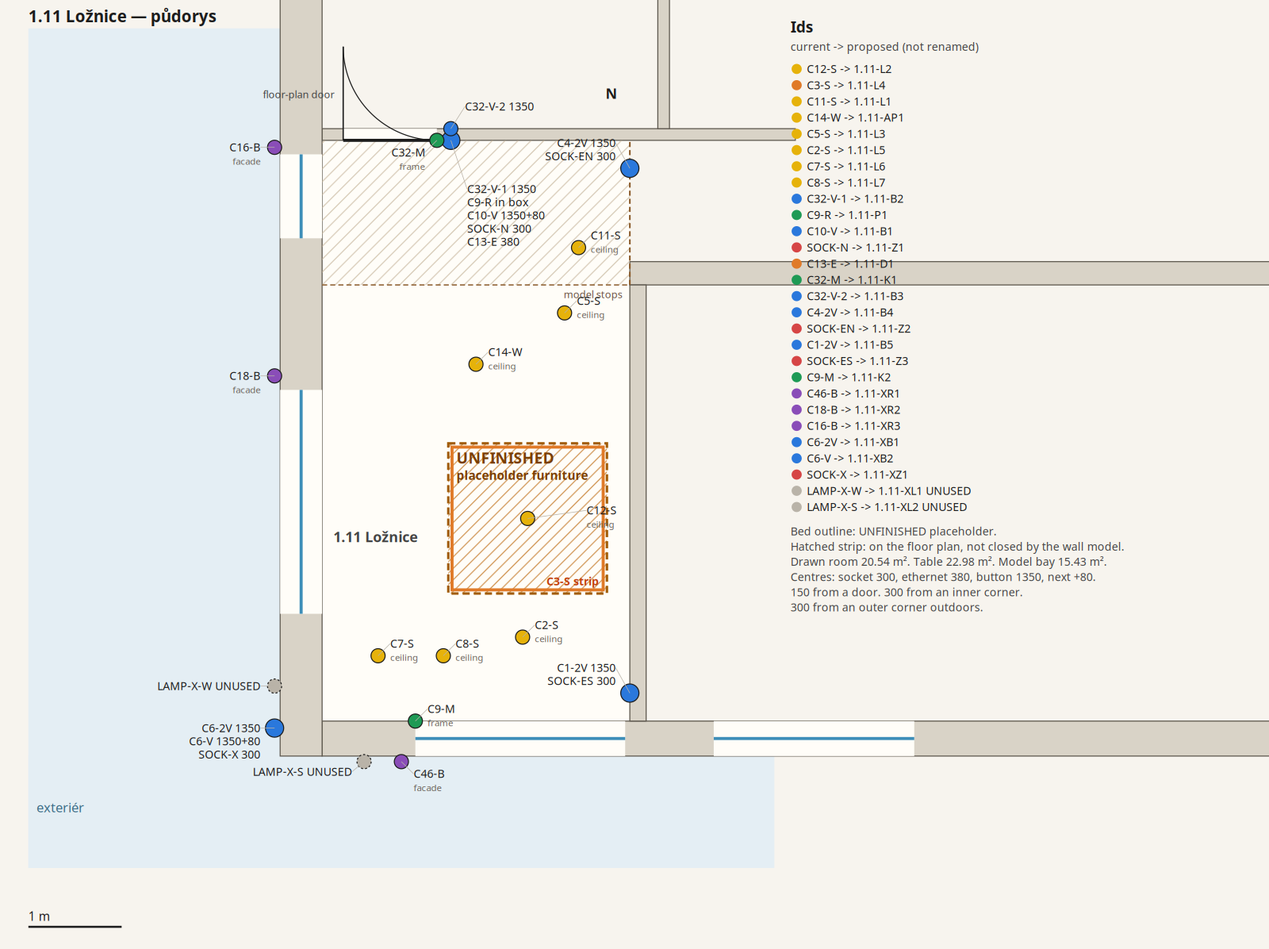
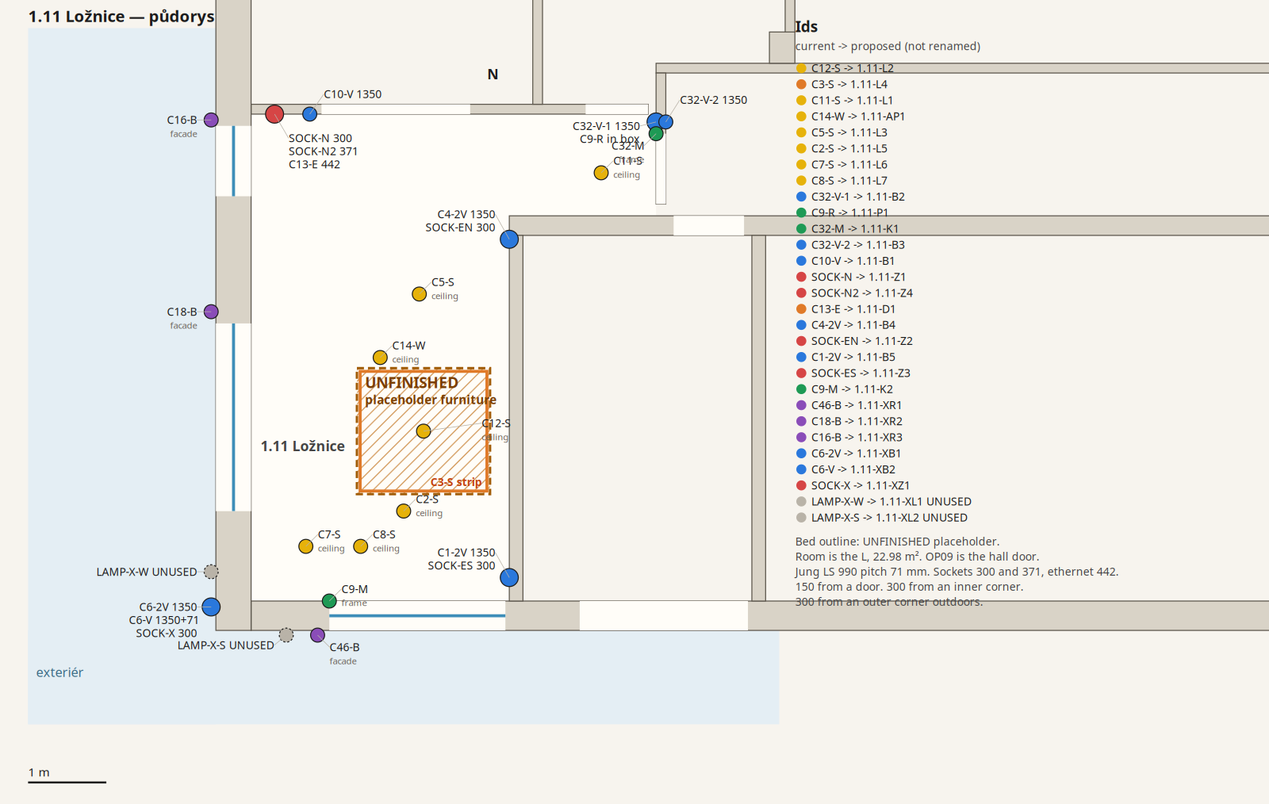
Publish PR preview pr-82

Changed region(s): [[0.0312, 0.0, 1.0, 0.8254], [0.0, 0.9477, 0.0938, 0.9783], [0.0312, 0.8254, 0.0625, 0.856]]

diff --git a/pr-preview/pr-82/electrical/1.11.html b/pr-preview/pr-82/electrical/1.11.html
@@ -22,18 +22,18 @@
   <h1>1.11 Ložnice — půdorys</h1>
   <p class="lead">2D review drawing. The 3D boxes are the first pass and are not being moved. The bed outline is UNFINISHED placeholder furniture. North is up. <a href="PlanNotes.md">Plan notes</a> · <a href="Naming.md">Naming</a></p>
   <div class="plan">
-<svg xmlns="http://www.w3.org/2000/svg" width="1252" height="936" viewBox="0 0 1252 936" font-family="ui-sans-serif, sans-serif"><defs><pattern id="gap" width="9" height="9" patternUnits="userSpaceOnUse" patternTransform="rotate(45)"><line x1="0" y1="0" x2="0" y2="9" stroke="#c4b49a" stroke-width="1.4"/></pattern><pattern id="unfin" width="8" height="8" patternUnits="userSpaceOnUse" patternTransform="rotate(45)"><line x1="0" y1="0" x2="0" y2="8" stroke="#c47b2b" stroke-width="1.6"/></pattern></defs><rect width="1252" height="936" fill="#f7f4ee"/><rect x="28.0" y="28.0" width="248.4" height="828.0" fill="#e4eef4"/><rect x="28.0" y="745.6" width="736.0" height="110.4" fill="#e4eef4"/><text x="36" y="801" fill="#3d6d86" font-size="13">exteriér</text><rect x="317.8" y="138.4" width="303.6" height="572.7" fill="#fffdf8" stroke="none"/><polygon points="317.8,745.6 317.8,711.1 1886.4,711.1 1886.4,745.6" fill="#d9d3c7" stroke="#5c564c" stroke-width="1"/><polygon points="637.5,281.0 621.4,281.0 621.4,258.0 1891.0,258.0 1891.0,281.0" fill="#d9d3c7" stroke="#5c564c" stroke-width="1"/><polygon points="317.8,138.4 317.8,126.9 784.7,126.9 784.7,138.4" fill="#d9d3c7" stroke="#5c564c" stroke-width="1"/><polygon points="317.8,711.1 317.8,745.6 276.4,745.6 276.4,-114.6 317.8,-114.6" fill="#d9d3c7" stroke="#5c564c" stroke-width="1"/><polygon points="637.5,711.1 621.4,711.1 621.4,281.0 637.5,281.0" fill="#d9d3c7" stroke="#5c564c" stroke-width="1"/><polygon points="660.5,126.9 649.0,126.9 649.0,-114.6 660.5,-114.6" fill="#d9d3c7" stroke="#5c564c" stroke-width="1"/><rect x="276.4" y="384.5" width="41.4" height="220.8" fill="#fffdf8" stroke="none"/><line x1="297.1" y1="605.3" x2="297.1" y2="384.5" stroke="#3d8eb8" stroke-width="3"/><rect x="276.4" y="152.2" width="41.4" height="82.8" fill="#fffdf8" stroke="none"/><line x1="297.1" y1="235.0" x2="297.1" y2="152.2" stroke="#3d8eb8" stroke-width="3"/><rect x="409.8" y="711.1" width="207.0" height="34.5" fill="#fffdf8" stroke="none"/><line x1="409.8" y1="728.3" x2="616.8" y2="728.3" stroke="#3d8eb8" stroke-width="3"/><rect x="704.2" y="711.1" width="197.8" height="34.5" fill="#fffdf8" stroke="none"/><line x1="704.2" y1="728.3" x2="902.0" y2="728.3" stroke="#3d8eb8" stroke-width="3"/><rect x="317.8" y="138.4" width="303.6" height="142.6" fill="url(#gap)" stroke="none"/><line x1="317.8" y1="281.0" x2="621.4" y2="281.0" stroke="#8a5a2a" stroke-width="1.2" stroke-dasharray="5 3"/><line x1="621.4" y1="281.0" x2="621.4" y2="138.4" stroke="#8a5a2a" stroke-width="1.6" stroke-dasharray="5 3"/><text x="614.0" y="294.0" text-anchor="end" fill="#6b5344" font-size="10">model stops</text><rect x="338.6" y="126.9" width="92.4" height="11.5" fill="#fffdf8" stroke="none"/><line x1="338.6" y1="138.4" x2="431.0" y2="138.4" stroke="#1c1c1c" stroke-width="3"/><line x1="338.6" y1="138.4" x2="338.6" y2="46.0" stroke="#1c1c1c" stroke-width="1.3"/><path d="M 431.0 138.4 A 92.4 92.4 0 0 1 338.6 46.0" fill="none" stroke="#1c1c1c" stroke-width="1"/><text x="330.6" y="96.8" text-anchor="end" fill="#444" font-size="10">floor-plan door</text><rect x="442.3" y="437.2" width="156.5" height="148.1" fill="url(#unfin)" stroke="#a15c07" stroke-width="2.4" stroke-dasharray="7 4"/><rect x="446.0" y="440.9" width="149.1" height="140.8" fill="none" stroke="#e07a28" stroke-width="3"/><text x="450.3" y="457.2" text-anchor="start" fill="#7a3e00" font-size="15" font-weight="700">UNFINISHED</text><text x="450.3" y="473.2" text-anchor="start" fill="#7a3e00" font-size="12" font-weight="700">placeholder furniture</text><text x="590.8" y="577.3" text-anchor="end" fill="#c2410c" font-size="11" font-weight="600">C3-S strip</text><text x="328.8" y="534.7" fill="#444" font-size="14" font-weight="600">1.11 Ložnice</text><circle cx="520.6" cy="511.3" r="7" fill="#e6b20a" stroke="#1c1c1c" stroke-width="1"/><line x1="520.6" y1="511.3" x2="578.6" y2="503.3" stroke="#b7b1a6" stroke-width="0.6"/><text x="578.6" y="507.3" text-anchor="start" font-size="11" fill="#1c1c1c">C12-S</text><text x="578.6" y="520.3" text-anchor="start" font-size="9" fill="#6b645c">ceiling</text><circle cx="570.8" cy="244.2" r="7" fill="#e6b20a" stroke="#1c1c1c" stroke-width="1"/><line x1="570.8" y1="244.2" x2="582.8" y2="232.2" stroke="#b7b1a6" stroke-width="0.6"/><text x="582.8" y="236.2" text-anchor="start" font-size="11" fill="#1c1c1c">C11-S</text><text x="582.8" y="249.2" text-anchor="start" font-size="9" fill="#6b645c">ceiling</text><circle cx="469.6" cy="359.2" r="7" fill="#e6b20a" stroke="#1c1c1c" stroke-width="1"/><line x1="469.6" y1="359.2" x2="481.6" y2="347.2" stroke="#b7b1a6" stroke-width="0.6"/><text x="481.6" y="351.2" text-anchor="start" font-size="11" fill="#1c1c1c">C14-W</text><text x="481.6" y="364.2" text-anchor="start" font-size="9" fill="#6b645c">ceiling</text><circle cx="557.0" cy="308.6" r="7" fill="#e6b20a" stroke="#1c1c1c" stroke-width="1"/><line x1="557.0" y1="308.6" x2="569.0" y2="296.6" stroke="#b7b1a6" stroke-width="0.6"/><text x="569.0" y="300.6" text-anchor="start" font-size="11" fill="#1c1c1c">C5-S</text><text x="569.0" y="313.6" text-anchor="start" font-size="9" fill="#6b645c">ceiling</text><circle cx="515.6" cy="628.3" r="7" fill="#e6b20a" stroke="#1c1c1c" stroke-width="1"/><line x1="515.6" y1="628.3" x2="527.6" y2="616.3" stroke="#b7b1a6" stroke-width="0.6"/><text x="527.6" y="620.3" text-anchor="start" font-size="11" fill="#1c1c1c">C2-S</text><text x="527.6" y="633.3" text-anchor="start" font-size="9" fill="#6b645c">ceiling</text><circle cx="373.0" cy="646.7" r="7" fill="#e6b20a" stroke="#1c1c1c" stroke-width="1"/><line x1="373.0" y1="646.7" x2="385.0" y2="634.7" stroke="#b7b1a6" stroke-width="0.6"/><text x="385.0" y="638.7" text-anchor="start" font-size="11" fill="#1c1c1c">C7-S</text><text x="385.0" y="651.7" text-anchor="start" font-size="9" fill="#6b645c">ceiling</text><circle cx="437.4" cy="646.7" r="7" fill="#e6b20a" stroke="#1c1c1c" stroke-width="1"/><line x1="437.4" y1="646.7" x2="449.4" y2="634.7" stroke="#b7b1a6" stroke-width="0.6"/><text x="449.4" y="638.7" text-anchor="start" font-size="11" fill="#1c1c1c">C8-S</text><text x="449.4" y="651.7" text-anchor="start" font-size="9" fill="#6b645c">ceiling</text><circle cx="444.8" cy="138.4" r="9" fill="#2a78dc" stroke="#1c1c1c" stroke-width="1"/><line x1="444.8" y1="138.4" x2="460.8" y2="186.4" stroke="#b7b1a6" stroke-width="0.6"/><text x="460.8" y="190.4" text-anchor="start" font-size="11" fill="#1c1c1c">C32-V-1 1350</text><text x="460.8" y="203.4" text-anchor="start" font-size="11" fill="#1c1c1c">C9-R in box</text><text x="460.8" y="216.4" text-anchor="start" font-size="11" fill="#1c1c1c">C10-V 1350+80</text><text x="460.8" y="229.4" text-anchor="start" font-size="11" fill="#1c1c1c">SOCK-N 300</text><text x="460.8" y="242.4" text-anchor="start" font-size="11" fill="#1c1c1c">C13-E 380</text><circle cx="431.0" cy="138.4" r="7" fill="#1e9a55" stroke="#1c1c1c" stroke-width="1"/><line x1="431.0" y1="138.4" x2="419.0" y2="150.4" stroke="#b7b1a6" stroke-width="0.6"/><text x="419.0" y="154.4" text-anchor="end" font-size="11" fill="#1c1c1c">C32-M</text><text x="419.0" y="167.4" text-anchor="end" font-size="9" fill="#6b645c">frame</text><circle cx="444.8" cy="126.9" r="7" fill="#2a78dc" stroke="#1c1c1c" stroke-width="1"/><line x1="444.8" y1="126.9" x2="458.8" y2="104.9" stroke="#b7b1a6" stroke-width="0.6"/><text x="458.8" y="108.9" text-anchor="start" font-size="11" fill="#1c1c1c">C32-V-2 1350</text><circle cx="621.4" cy="166.0" r="9" fill="#2a78dc" stroke="#1c1c1c" stroke-width="1"/><line x1="621.4" y1="166.0" x2="607.4" y2="141.0" stroke="#b7b1a6" stroke-width="0.6"/><text x="607.4" y="145.0" text-anchor="end" font-size="11" fill="#1c1c1c">C4-2V 1350</text><text x="607.4" y="158.0" text-anchor="end" font-size="11" fill="#1c1c1c">SOCK-EN 300</text><circle cx="621.4" cy="683.5" r="9" fill="#2a78dc" stroke="#1c1c1c" stroke-width="1"/><line x1="621.4" y1="683.5" x2="607.4" y2="658.5" stroke="#b7b1a6" stroke-width="0.6"/><text x="607.4" y="662.5" text-anchor="end" font-size="11" fill="#1c1c1c">C1-2V 1350</text><text x="607.4" y="675.5" text-anchor="end" font-size="11" fill="#1c1c1c">SOCK-ES 300</text><circle cx="409.8" cy="711.1" r="7" fill="#1e9a55" stroke="#1c1c1c" stroke-width="1"/><line x1="409.8" y1="711.1" x2="421.8" y2="699.1" stroke="#b7b1a6" stroke-width="0.6"/><text x="421.8" y="703.1" text-anchor="start" font-size="11" fill="#1c1c1c">C9-M</text><text x="421.8" y="716.1" text-anchor="start" font-size="9" fill="#6b645c">frame</text><circle cx="396.0" cy="751.1" r="7" fill="#8a4db8" stroke="#1c1c1c" stroke-width="1"/><line x1="396.0" y1="751.1" x2="408.0" y2="763.1" stroke="#b7b1a6" stroke-width="0.6"/><text x="408.0" y="767.1" text-anchor="start" font-size="11" fill="#1c1c1c">C46-B</text><text x="408.0" y="780.1" text-anchor="start" font-size="9" fill="#6b645c">facade</text><circle cx="270.9" cy="370.7" r="7" fill="#8a4db8" stroke="#1c1c1c" stroke-width="1"/><line x1="270.9" y1="370.7" x2="256.9" y2="370.7" stroke="#b7b1a6" stroke-width="0.6"/><text x="256.9" y="374.7" text-anchor="end" font-size="11" fill="#1c1c1c">C18-B</text><text x="256.9" y="387.7" text-anchor="end" font-size="9" fill="#6b645c">facade</text><circle cx="270.9" cy="145.3" r="7" fill="#8a4db8" stroke="#1c1c1c" stroke-width="1"/><line x1="270.9" y1="145.3" x2="256.9" y2="145.3" stroke="#b7b1a6" stroke-width="0.6"/><text x="256.9" y="149.3" text-anchor="end" font-size="11" fill="#1c1c1c">C16-B</text><text x="256.9" y="162.3" text-anchor="end" font-size="9" fill="#6b645c">facade</text><circle cx="270.9" cy="718.0" r="9" fill="#2a78dc" stroke="#1c1c1c" stroke-width="1"/><line x1="270.9" y1="718.0" x2="256.9" y2="718.0" stroke="#b7b1a6" stroke-width="0.6"/><text x="256.9" y="722.0" text-anchor="end" font-size="11" fill="#1c1c1c">C6-2V 1350</text><text x="256.9" y="735.0" text-anchor="end" font-size="11" fill="#1c1c1c">C6-V 1350+80</text><text x="256.9" y="748.0" text-anchor="end" font-size="11" fill="#1c1c1c">SOCK-X 300</text><circle cx="270.9" cy="676.6" r="7" fill="#b9b3a8" stroke="#1c1c1c" stroke-width="1" stroke-dasharray="2 2"/><line x1="270.9" y1="676.6" x2="256.9" y2="676.6" stroke="#b7b1a6" stroke-width="0.6"/><text x="256.9" y="680.6" text-anchor="end" font-size="11" fill="#1c1c1c">LAMP-X-W UNUSED</text><circle cx="359.2" cy="751.1" r="7" fill="#b9b3a8" stroke="#1c1c1c" stroke-width="1" stroke-dasharray="2 2"/><line x1="359.2" y1="751.1" x2="347.2" y2="761.1" stroke="#b7b1a6" stroke-width="0.6"/><text x="347.2" y="765.1" text-anchor="end" font-size="11" fill="#1c1c1c">LAMP-X-S UNUSED</text><line x1="28.0" y1="914.0" x2="120.0" y2="914.0" stroke="#1c1c1c" stroke-width="2"/><text x="28.0" y="908.0" font-size="12" fill="#1c1c1c">1 m</text><text x="607.6" y="97.5" text-anchor="end" font-size="14" font-weight="700" fill="#1c1c1c">N</text><text x="780.0" y="32" font-size="15" font-weight="700" fill="#1c1c1c">Ids</text><text x="780.0" y="50" font-size="11" fill="#444">current  ->  proposed (not renamed)</text><circle cx="786.0" cy="68" r="5" fill="#e6b20a"/><text x="796.0" y="72" font-size="11" fill="#1c1c1c">C12-S  ->  1.11-L2</text><circle cx="786.0" cy="84" r="5" fill="#e07a28"/><text x="796.0" y="88" font-size="11" fill="#1c1c1c">C3-S  ->  1.11-L4</text><circle cx="786.0" cy="100" r="5" fill="#e6b20a"/><text x="796.0" y="104" font-size="11" fill="#1c1c1c">C11-S  ->  1.11-L1</text><circle cx="786.0" cy="116" r="5" fill="#e6b20a"/><text x="796.0" y="120" font-size="11" fill="#1c1c1c">C14-W  ->  1.11-AP1</text><circle cx="786.0" cy="132" r="5" fill="#e6b20a"/><text x="796.0" y="136" font-size="11" fill="#1c1c1c">C5-S  ->  1.11-L3</text><circle cx="786.0" cy="148" r="5" fill="#e6b20a"/><text x="796.0" y="152" font-size="11" fill="#1c1c1c">C2-S  ->  1.11-L5</text><circle cx="786.0" cy="164" r="5" fill="#e6b20a"/><text x="796.0" y="168" font-size="11" fill="#1c1c1c">C7-S  ->  1.11-L6</text><circle cx="786.0" cy="180" r="5" fill="#e6b20a"/><text x="796.0" y="184" font-size="11" fill="#1c1c1c">C8-S  ->  1.11-L7</text><circle cx="786.0" cy="196" r="5" fill="#2a78dc"/><text x="796.0" y="200" font-size="11" fill="#1c1c1c">C32-V-1  ->  1.11-B2</text><circle cx="786.0" cy="212" r="5" fill="#1e9a55"/><text x="796.0" y="216" font-size="11" fill="#1c1c1c">C9-R  ->  1.11-P1</text><circle cx="786.0" cy="228" r="5" fill="#2a78dc"/><text x="796.0" y="232" font-size="11" fill="#1c1c1c">C10-V  ->  1.11-B1</text><circle cx="786.0" cy="244" r="5" fill="#d64545"/><text x="796.0" y="248" font-size="11" fill="#1c1c1c">SOCK-N  ->  1.11-Z1</text><circle cx="786.0" cy="260" r="5" fill="#e07a28"/><text x="796.0" y="264" font-size="11" fill="#1c1c1c">C13-E  ->  1.11-D1</text><circle cx="786.0" cy="276" r="5" fill="#1e9a55"/><text x="796.0" y="280" font-size="11" fill="#1c1c1c">C32-M  ->  1.11-K1</text><circle cx="786.0" cy="292" r="5" fill="#2a78dc"/><text x="796.0" y="296" font-size="11" fill="#1c1c1c">C32-V-2  ->  1.11-B3</text><circle cx="786.0" cy="308" r="5" fill="#2a78dc"/><text x="796.0" y="312" font-size="11" fill="#1c1c1c">C4-2V  ->  1.11-B4</text><circle cx="786.0" cy="324" r="5" fill="#d64545"/><text x="796.0" y="328" font-size="11" fill="#1c1c1c">SOCK-EN  ->  1.11-Z2</text><circle cx="786.0" cy="340" r="5" fill="#2a78dc"/><text x="796.0" y="344" font-size="11" fill="#1c1c1c">C1-2V  ->  1.11-B5</text><circle cx="786.0" cy="356" r="5" fill="#d64545"/><text x="796.0" y="360" font-size="11" fill="#1c1c1c">SOCK-ES  ->  1.11-Z3</text><circle cx="786.0" cy="372" r="5" fill="#1e9a55"/><text x="796.0" y="376" font-size="11" fill="#1c1c1c">C9-M  ->  1.11-K2</text><circle cx="786.0" cy="388" r="5" fill="#8a4db8"/><text x="796.0" y="392" font-size="11" fill="#1c1c1c">C46-B  ->  1.11-XR1</text><circle cx="786.0" cy="404" r="5" fill="#8a4db8"/><text x="796.0" y="408" font-size="11" fill="#1c1c1c">C18-B  ->  1.11-XR2</text><circle cx="786.0" cy="420" r="5" fill="#8a4db8"/><text x="796.0" y="424" font-size="11" fill="#1c1c1c">C16-B  ->  1.11-XR3</text><circle cx="786.0" cy="436" r="5" fill="#2a78dc"/><text x="796.0" y="440" font-size="11" fill="#1c1c1c">C6-2V  ->  1.11-XB1</text><circle cx="786.0" cy="452" r="5" fill="#2a78dc"/><text x="796.0" y="456" font-size="11" fill="#1c1c1c">C6-V  ->  1.11-XB2</text><circle cx="786.0" cy="468" r="5" fill="#d64545"/><text x="796.0" y="472" font-size="11" fill="#1c1c1c">SOCK-X  ->  1.11-XZ1</text><circle cx="786.0" cy="484" r="5" fill="#b9b3a8"/><text x="796.0" y="488" font-size="11" fill="#1c1c1c">LAMP-X-W  ->  1.11-XL1  UNUSED</text><circle cx="786.0" cy="500" r="5" fill="#b9b3a8"/><text x="796.0" y="504" font-size="11" fill="#1c1c1c">LAMP-X-S  ->  1.11-XL2  UNUSED</text><text x="780.0" y="528" font-size="11" fill="#444">Bed outline: UNFINISHED placeholder.</text><text x="780.0" y="543" font-size="11" fill="#444">Hatched strip: on the floor plan, not closed by the wall model.</text><text x="780.0" y="558" font-size="11" fill="#444">Drawn room 20.54 m². Table 22.98 m². Model bay 15.43 m².</text><text x="780.0" y="573" font-size="11" fill="#444">Centres: socket 300, ethernet 380, button 1350, next +80.</text><text x="780.0" y="588" font-size="11" fill="#444">150 from a door. 300 from an inner corner.</text><text x="780.0" y="603" font-size="11" fill="#444">300 from an outer corner outdoors.</text><text x="28.0" y="22" font-size="16" font-weight="700" fill="#1c1c1c">1.11 Ložnice — půdorys</text></svg>
+<svg xmlns="http://www.w3.org/2000/svg" width="1265" height="802" viewBox="0 0 1265 802" font-family="ui-sans-serif, sans-serif"><defs><pattern id="gap" width="9" height="9" patternUnits="userSpaceOnUse" patternTransform="rotate(45)"><line x1="0" y1="0" x2="0" y2="9" stroke="#c4b49a" stroke-width="1.4"/></pattern><pattern id="unfin" width="8" height="8" patternUnits="userSpaceOnUse" patternTransform="rotate(45)"><line x1="0" y1="0" x2="0" y2="8" stroke="#c47b2b" stroke-width="1.6"/></pattern></defs><rect width="1265" height="802" fill="#f7f4ee"/><rect x="28.0" y="28.0" width="187.2" height="694.2" fill="#e4eef4"/><rect x="28.0" y="628.6" width="748.8" height="93.6" fill="#e4eef4"/><text x="36" y="675" fill="#3d6d86" font-size="13">exteriér</text><polygon points="250.3,599.3 507.7,599.3 507.7,215.2 654.0,215.2 654.0,113.8 250.3,113.8" fill="#fffdf8" stroke="none"/><polygon points="250.3,628.6 250.3,599.3 1580.2,599.3 1580.2,628.6" fill="#d9d3c7" stroke="#5c564c" stroke-width="1"/><polygon points="521.3,234.7 507.7,234.7 507.7,215.2 1584.1,215.2 1584.1,234.7" fill="#d9d3c7" stroke="#5c564c" stroke-width="1"/><polygon points="250.3,113.8 250.3,104.0 646.2,104.0 646.2,113.8" fill="#d9d3c7" stroke="#5c564c" stroke-width="1"/><polygon points="663.7,72.8 654.0,72.8 654.0,63.1 1324.8,63.1 1324.8,72.8" fill="#d9d3c7" stroke="#5c564c" stroke-width="1"/><polygon points="250.3,599.3 250.3,628.6 215.2,628.6 215.2,-100.7 250.3,-100.7" fill="#d9d3c7" stroke="#5c564c" stroke-width="1"/><polygon points="521.3,599.3 507.7,599.3 507.7,234.7 521.3,234.7" fill="#d9d3c7" stroke="#5c564c" stroke-width="1"/><polygon points="540.8,104.0 531.1,104.0 531.1,-100.7 540.8,-100.7" fill="#d9d3c7" stroke="#5c564c" stroke-width="1"/><polygon points="663.7,203.5 654.0,203.5 654.0,72.8 663.7,72.8" fill="#d9d3c7" stroke="#5c564c" stroke-width="1"/><polygon points="763.2,599.3 749.5,599.3 749.5,234.7 763.2,234.7" fill="#d9d3c7" stroke="#5c564c" stroke-width="1"/><polygon points="792.4,63.1 767.0,63.1 767.0,31.9 792.4,31.9" fill="#d9d3c7" stroke="#5c564c" stroke-width="1"/><polygon points="792.4,31.9 782.7,31.9 782.7,-100.7 792.4,-100.7" fill="#d9d3c7" stroke="#5c564c" stroke-width="1"/><rect x="215.2" y="322.5" width="35.1" height="187.2" fill="#fffdf8" stroke="none"/><line x1="232.8" y1="509.6" x2="232.8" y2="322.5" stroke="#3d8eb8" stroke-width="3"/><rect x="215.2" y="125.5" width="35.1" height="70.2" fill="#fffdf8" stroke="none"/><line x1="232.8" y1="195.7" x2="232.8" y2="125.5" stroke="#3d8eb8" stroke-width="3"/><rect x="320.5" y="104.0" width="148.2" height="9.8" fill="#fffdf8" stroke="none"/><rect x="328.3" y="599.3" width="175.5" height="29.2" fill="#fffdf8" stroke="none"/><line x1="328.3" y1="614.0" x2="503.8" y2="614.0" stroke="#3d8eb8" stroke-width="3"/><rect x="583.8" y="104.0" width="62.4" height="9.8" fill="#fffdf8" stroke="none"/><rect x="577.9" y="599.3" width="167.7" height="29.2" fill="#fffdf8" stroke="none"/><rect x="654.0" y="133.3" width="9.8" height="70.2" fill="#fffdf8" stroke="none"/><rect x="671.5" y="215.2" width="70.2" height="19.5" fill="#fffdf8" stroke="none"/><rect x="355.8" y="367.1" width="132.7" height="125.6" fill="url(#unfin)" stroke="#a15c07" stroke-width="2.4" stroke-dasharray="7 4"/><rect x="359.0" y="370.3" width="126.4" height="119.3" fill="none" stroke="#e07a28" stroke-width="3"/><text x="363.8" y="387.1" text-anchor="start" fill="#7a3e00" font-size="15" font-weight="700">UNFINISHED</text><text x="363.8" y="403.1" text-anchor="start" fill="#7a3e00" font-size="12" font-weight="700">placeholder furniture</text><text x="480.5" y="484.7" text-anchor="end" fill="#c2410c" font-size="11" font-weight="600">C3-S strip</text><text x="259.7" y="449.8" fill="#444" font-size="14" font-weight="600">1.11 Ložnice</text><circle cx="422.2" cy="429.9" r="7" fill="#e6b20a" stroke="#1c1c1c" stroke-width="1"/><line x1="422.2" y1="429.9" x2="480.2" y2="421.9" stroke="#b7b1a6" stroke-width="0.6"/><text x="480.2" y="425.9" text-anchor="start" font-size="11" fill="#1c1c1c">C12-S</text><text x="480.2" y="438.9" text-anchor="start" font-size="9" fill="#6b645c">ceiling</text><circle cx="599.3" cy="172.3" r="7" fill="#e6b20a" stroke="#1c1c1c" stroke-width="1"/><line x1="599.3" y1="172.3" x2="611.3" y2="160.3" stroke="#b7b1a6" stroke-width="0.6"/><text x="611.3" y="164.3" text-anchor="start" font-size="11" fill="#1c1c1c">C11-S</text><text x="611.3" y="177.3" text-anchor="start" font-size="9" fill="#6b645c">ceiling</text><circle cx="379.0" cy="356.5" r="7" fill="#e6b20a" stroke="#1c1c1c" stroke-width="1"/><line x1="379.0" y1="356.5" x2="391.0" y2="344.5" stroke="#b7b1a6" stroke-width="0.6"/><text x="391.0" y="348.5" text-anchor="start" font-size="11" fill="#1c1c1c">C14-W</text><text x="391.0" y="361.5" text-anchor="start" font-size="9" fill="#6b645c">ceiling</text><circle cx="418.0" cy="293.2" r="7" fill="#e6b20a" stroke="#1c1c1c" stroke-width="1"/><line x1="418.0" y1="293.2" x2="430.0" y2="281.2" stroke="#b7b1a6" stroke-width="0.6"/><text x="430.0" y="285.2" text-anchor="start" font-size="11" fill="#1c1c1c">C5-S</text><text x="430.0" y="298.2" text-anchor="start" font-size="9" fill="#6b645c">ceiling</text><circle cx="402.4" cy="509.6" r="7" fill="#e6b20a" stroke="#1c1c1c" stroke-width="1"/><line x1="402.4" y1="509.6" x2="414.4" y2="497.6" stroke="#b7b1a6" stroke-width="0.6"/><text x="414.4" y="501.6" text-anchor="start" font-size="11" fill="#1c1c1c">C2-S</text><text x="414.4" y="514.6" text-anchor="start" font-size="9" fill="#6b645c">ceiling</text><circle cx="304.9" cy="544.8" r="7" fill="#e6b20a" stroke="#1c1c1c" stroke-width="1"/><line x1="304.9" y1="544.8" x2="316.9" y2="532.8" stroke="#b7b1a6" stroke-width="0.6"/><text x="316.9" y="536.8" text-anchor="start" font-size="11" fill="#1c1c1c">C7-S</text><text x="316.9" y="549.8" text-anchor="start" font-size="9" fill="#6b645c">ceiling</text><circle cx="359.5" cy="544.8" r="7" fill="#e6b20a" stroke="#1c1c1c" stroke-width="1"/><line x1="359.5" y1="544.8" x2="371.5" y2="532.8" stroke="#b7b1a6" stroke-width="0.6"/><text x="371.5" y="536.8" text-anchor="start" font-size="11" fill="#1c1c1c">C8-S</text><text x="371.5" y="549.8" text-anchor="start" font-size="9" fill="#6b645c">ceiling</text><circle cx="654.0" cy="121.6" r="9" fill="#2a78dc" stroke="#1c1c1c" stroke-width="1"/><line x1="654.0" y1="121.6" x2="638.0" y2="125.6" stroke="#b7b1a6" stroke-width="0.6"/><text x="638.0" y="129.6" text-anchor="end" font-size="11" fill="#1c1c1c">C32-V-1 1350</text><text x="638.0" y="142.6" text-anchor="end" font-size="11" fill="#1c1c1c">C9-R in box</text><circle cx="654.0" cy="133.3" r="7" fill="#1e9a55" stroke="#1c1c1c" stroke-width="1"/><line x1="654.0" y1="133.3" x2="642.0" y2="145.3" stroke="#b7b1a6" stroke-width="0.6"/><text x="642.0" y="149.3" text-anchor="end" font-size="11" fill="#1c1c1c">C32-M</text><text x="642.0" y="162.3" text-anchor="end" font-size="9" fill="#6b645c">frame</text><circle cx="663.7" cy="121.6" r="7" fill="#2a78dc" stroke="#1c1c1c" stroke-width="1"/><line x1="663.7" y1="121.6" x2="677.7" y2="99.6" stroke="#b7b1a6" stroke-width="0.6"/><text x="677.7" y="103.6" text-anchor="start" font-size="11" fill="#1c1c1c">C32-V-2 1350</text><circle cx="308.8" cy="113.8" r="7" fill="#2a78dc" stroke="#1c1c1c" stroke-width="1"/><line x1="308.8" y1="113.8" x2="322.8" y2="93.8" stroke="#b7b1a6" stroke-width="0.6"/><text x="322.8" y="97.8" text-anchor="start" font-size="11" fill="#1c1c1c">C10-V 1350</text><circle cx="273.7" cy="113.8" r="9" fill="#d64545" stroke="#1c1c1c" stroke-width="1"/><line x1="273.7" y1="113.8" x2="287.7" y2="137.8" stroke="#b7b1a6" stroke-width="0.6"/><text x="287.7" y="141.8" text-anchor="start" font-size="11" fill="#1c1c1c">SOCK-N 300</text><text x="287.7" y="154.8" text-anchor="start" font-size="11" fill="#1c1c1c">SOCK-N2 371</text><text x="287.7" y="167.8" text-anchor="start" font-size="11" fill="#1c1c1c">C13-E 442</text><circle cx="507.7" cy="238.6" r="9" fill="#2a78dc" stroke="#1c1c1c" stroke-width="1"/><line x1="507.7" y1="238.6" x2="493.7" y2="213.6" stroke="#b7b1a6" stroke-width="0.6"/><text x="493.7" y="217.6" text-anchor="end" font-size="11" fill="#1c1c1c">C4-2V 1350</text><text x="493.7" y="230.6" text-anchor="end" font-size="11" fill="#1c1c1c">SOCK-EN 300</text><circle cx="507.7" cy="575.9" r="9" fill="#2a78dc" stroke="#1c1c1c" stroke-width="1"/><line x1="507.7" y1="575.9" x2="493.7" y2="550.9" stroke="#b7b1a6" stroke-width="0.6"/><text x="493.7" y="554.9" text-anchor="end" font-size="11" fill="#1c1c1c">C1-2V 1350</text><text x="493.7" y="567.9" text-anchor="end" font-size="11" fill="#1c1c1c">SOCK-ES 300</text><circle cx="328.3" cy="599.3" r="7" fill="#1e9a55" stroke="#1c1c1c" stroke-width="1"/><line x1="328.3" y1="599.3" x2="340.3" y2="587.3" stroke="#b7b1a6" stroke-width="0.6"/><text x="340.3" y="591.3" text-anchor="start" font-size="11" fill="#1c1c1c">C9-M</text><text x="340.3" y="604.3" text-anchor="start" font-size="9" fill="#6b645c">frame</text><circle cx="316.6" cy="633.3" r="7" fill="#8a4db8" stroke="#1c1c1c" stroke-width="1"/><line x1="316.6" y1="633.3" x2="328.6" y2="645.3" stroke="#b7b1a6" stroke-width="0.6"/><text x="328.6" y="649.3" text-anchor="start" font-size="11" fill="#1c1c1c">C46-B</text><text x="328.6" y="662.3" text-anchor="start" font-size="9" fill="#6b645c">facade</text><circle cx="210.5" cy="310.8" r="7" fill="#8a4db8" stroke="#1c1c1c" stroke-width="1"/><line x1="210.5" y1="310.8" x2="196.5" y2="310.8" stroke="#b7b1a6" stroke-width="0.6"/><text x="196.5" y="314.8" text-anchor="end" font-size="11" fill="#1c1c1c">C18-B</text><text x="196.5" y="327.8" text-anchor="end" font-size="9" fill="#6b645c">facade</text><circle cx="210.5" cy="119.6" r="7" fill="#8a4db8" stroke="#1c1c1c" stroke-width="1"/><line x1="210.5" y1="119.6" x2="196.5" y2="119.6" stroke="#b7b1a6" stroke-width="0.6"/><text x="196.5" y="123.6" text-anchor="end" font-size="11" fill="#1c1c1c">C16-B</text><text x="196.5" y="136.6" text-anchor="end" font-size="9" fill="#6b645c">facade</text><circle cx="210.5" cy="605.2" r="9" fill="#2a78dc" stroke="#1c1c1c" stroke-width="1"/><line x1="210.5" y1="605.2" x2="196.5" y2="605.2" stroke="#b7b1a6" stroke-width="0.6"/><text x="196.5" y="609.2" text-anchor="end" font-size="11" fill="#1c1c1c">C6-2V 1350</text><text x="196.5" y="622.2" text-anchor="end" font-size="11" fill="#1c1c1c">C6-V 1350+71</text><text x="196.5" y="635.2" text-anchor="end" font-size="11" fill="#1c1c1c">SOCK-X 300</text><circle cx="210.5" cy="570.1" r="7" fill="#b9b3a8" stroke="#1c1c1c" stroke-width="1" stroke-dasharray="2 2"/><line x1="210.5" y1="570.1" x2="196.5" y2="570.1" stroke="#b7b1a6" stroke-width="0.6"/><text x="196.5" y="574.1" text-anchor="end" font-size="11" fill="#1c1c1c">LAMP-X-W UNUSED</text><circle cx="285.4" cy="633.3" r="7" fill="#b9b3a8" stroke="#1c1c1c" stroke-width="1" stroke-dasharray="2 2"/><line x1="285.4" y1="633.3" x2="273.4" y2="643.3" stroke="#b7b1a6" stroke-width="0.6"/><text x="273.4" y="647.3" text-anchor="end" font-size="11" fill="#1c1c1c">LAMP-X-S UNUSED</text><line x1="28.0" y1="780.2" x2="106.0" y2="780.2" stroke="#1c1c1c" stroke-width="2"/><text x="28.0" y="774.2" font-size="12" fill="#1c1c1c">1 m</text><text x="496.0" y="79.1" text-anchor="end" font-size="14" font-weight="700" fill="#1c1c1c">N</text><text x="792.8" y="32" font-size="15" font-weight="700" fill="#1c1c1c">Ids</text><text x="792.8" y="50" font-size="11" fill="#444">current  ->  proposed (not renamed)</text><circle cx="798.8" cy="68" r="5" fill="#e6b20a"/><text x="808.8" y="72" font-size="11" fill="#1c1c1c">C12-S  ->  1.11-L2</text><circle cx="798.8" cy="84" r="5" fill="#e07a28"/><text x="808.8" y="88" font-size="11" fill="#1c1c1c">C3-S  ->  1.11-L4</text><circle cx="798.8" cy="100" r="5" fill="#e6b20a"/><text x="808.8" y="104" font-size="11" fill="#1c1c1c">C11-S  ->  1.11-L1</text><circle cx="798.8" cy="116" r="5" fill="#e6b20a"/><text x="808.8" y="120" font-size="11" fill="#1c1c1c">C14-W  ->  1.11-AP1</text><circle cx="798.8" cy="132" r="5" fill="#e6b20a"/><text x="808.8" y="136" font-size="11" fill="#1c1c1c">C5-S  ->  1.11-L3</text><circle cx="798.8" cy="148" r="5" fill="#e6b20a"/><text x="808.8" y="152" font-size="11" fill="#1c1c1c">C2-S  ->  1.11-L5</text><circle cx="798.8" cy="164" r="5" fill="#e6b20a"/><text x="808.8" y="168" font-size="11" fill="#1c1c1c">C7-S  ->  1.11-L6</text><circle cx="798.8" cy="180" r="5" fill="#e6b20a"/><text x="808.8" y="184" font-size="11" fill="#1c1c1c">C8-S  ->  1.11-L7</text><circle cx="798.8" cy="196" r="5" fill="#2a78dc"/><text x="808.8" y="200" font-size="11" fill="#1c1c1c">C32-V-1  ->  1.11-B2</text><circle cx="798.8" cy="212" r="5" fill="#1e9a55"/><text x="808.8" y="216" font-size="11" fill="#1c1c1c">C9-R  ->  1.11-P1</text><circle cx="798.8" cy="228" r="5" fill="#1e9a55"/><text x="808.8" y="232" font-size="11" fill="#1c1c1c">C32-M  ->  1.11-K1</text><circle cx="798.8" cy="244" r="5" fill="#2a78dc"/><text x="808.8" y="248" font-size="11" fill="#1c1c1c">C32-V-2  ->  1.11-B3</text><circle cx="798.8" cy="260" r="5" fill="#2a78dc"/><text x="808.8" y="264" font-size="11" fill="#1c1c1c">C10-V  ->  1.11-B1</text><circle cx="798.8" cy="276" r="5" fill="#d64545"/><text x="808.8" y="280" font-size="11" fill="#1c1c1c">SOCK-N  ->  1.11-Z1</text><circle cx="798.8" cy="292" r="5" fill="#d64545"/><text x="808.8" y="296" font-size="11" fill="#1c1c1c">SOCK-N2  ->  1.11-Z4</text><circle cx="798.8" cy="308" r="5" fill="#e07a28"/><text x="808.8" y="312" font-size="11" fill="#1c1c1c">C13-E  ->  1.11-D1</text><circle cx="798.8" cy="324" r="5" fill="#2a78dc"/><text x="808.8" y="328" font-size="11" fill="#1c1c1c">C4-2V  ->  1.11-B4</text><circle cx="798.8" cy="340" r="5" fill="#d64545"/><text x="808.8" y="344" font-size="11" fill="#1c1c1c">SOCK-EN  ->  1.11-Z2</text><circle cx="798.8" cy="356" r="5" fill="#2a78dc"/><text x="808.8" y="360" font-size="11" fill="#1c1c1c">C1-2V  ->  1.11-B5</text><circle cx="798.8" cy="372" r="5" fill="#d64545"/><text x="808.8" y="376" font-size="11" fill="#1c1c1c">SOCK-ES  ->  1.11-Z3</text><circle cx="798.8" cy="388" r="5" fill="#1e9a55"/><text x="808.8" y="392" font-size="11" fill="#1c1c1c">C9-M  ->  1.11-K2</text><circle cx="798.8" cy="404" r="5" fill="#8a4db8"/><text x="808.8" y="408" font-size="11" fill="#1c1c1c">C46-B  ->  1.11-XR1</text><circle cx="798.8" cy="420" r="5" fill="#8a4db8"/><text x="808.8" y="424" font-size="11" fill="#1c1c1c">C18-B  ->  1.11-XR2</text><circle cx="798.8" cy="436" r="5" fill="#8a4db8"/><text x="808.8" y="440" font-size="11" fill="#1c1c1c">C16-B  ->  1.11-XR3</text><circle cx="798.8" cy="452" r="5" fill="#2a78dc"/><text x="808.8" y="456" font-size="11" fill="#1c1c1c">C6-2V  ->  1.11-XB1</text><circle cx="798.8" cy="468" r="5" fill="#2a78dc"/><text x="808.8" y="472" font-size="11" fill="#1c1c1c">C6-V  ->  1.11-XB2</text><circle cx="798.8" cy="484" r="5" fill="#d64545"/><text x="808.8" y="488" font-size="11" fill="#1c1c1c">SOCK-X  ->  1.11-XZ1</text><circle cx="798.8" cy="500" r="5" fill="#b9b3a8"/><text x="808.8" y="504" font-size="11" fill="#1c1c1c">LAMP-X-W  ->  1.11-XL1  UNUSED</text><circle cx="798.8" cy="516" r="5" fill="#b9b3a8"/><text x="808.8" y="520" font-size="11" fill="#1c1c1c">LAMP-X-S  ->  1.11-XL2  UNUSED</text><text x="792.8" y="544" font-size="11" fill="#444">Bed outline: UNFINISHED placeholder.</text><text x="792.8" y="559" font-size="11" fill="#444">Room is the L, 22.98 m². OP09 is the hall door.</text><text x="792.8" y="574" font-size="11" fill="#444">Jung LS 990 pitch 71 mm. Sockets 300 and 371, ethernet 442.</text><text x="792.8" y="589" font-size="11" fill="#444">150 from a door. 300 from an inner corner.</text><text x="792.8" y="604" font-size="11" fill="#444">300 from an outer corner outdoors.</text><text x="28.0" y="22" font-size="16" font-weight="700" fill="#1c1c1c">1.11 Ložnice — půdorys</text></svg>
   </div>
   <h2>Current id → proposed id</h2>
   <p>The proposed ids are not applied yet. Cable number stays a property.</p>
   <table>
     <thead><tr><th>Current</th><th>Proposed</th><th>Rule</th><th>Note</th></tr></thead>
     <tbody>
-<tr><td>C12-S</td><td>1.11-L2</td><td>ceiling</td><td>Pendant above the bed. Cable 12.</td></tr><tr><td>C3-S</td><td>1.11-L4</td><td>bed-edge</td><td>LED strip under the bed, all around the unfinished outline. Cable 3.</td></tr><tr><td>C11-S</td><td>1.11-L1</td><td>ceiling</td><td>Ceiling near the door.</td></tr><tr><td>C14-W</td><td>1.11-AP1</td><td>ceiling</td><td>Access point on the bedroom ceiling.</td></tr><tr><td>C5-S</td><td>1.11-L3</td><td>ceiling</td><td>Ceiling light by the north east plates.</td></tr><tr><td>C2-S</td><td>1.11-L5</td><td>ceiling</td><td>Ceiling light by the south east plates.</td></tr><tr><td>C7-S</td><td>1.11-L6</td><td>ceiling</td><td>Southwest ceiling pair.</td></tr><tr><td>C8-S</td><td>1.11-L7</td><td>ceiling</td><td>Southwest ceiling pair.</td></tr><tr><td>C32-V-1</td><td>1.11-B2</td><td>1350</td><td>Bedroom light switch, 150 mm from the door edge. Centre 1350.</td></tr><tr><td>C9-R</td><td>1.11-P1</td><td>in box</td><td>mmWave inside the bedroom door switch C32-V-1. No dot of its own.</td></tr><tr><td>C10-V</td><td>1.11-B1</td><td>1350+80</td><td>Second button, stacked above 1350.</td></tr><tr><td>SOCK-N</td><td>1.11-Z1</td><td>300</td><td>Power socket, centre 300. No cable.</td></tr><tr><td>C13-E</td><td>1.11-D1</td><td>380</td><td>Ethernet right above the socket. Centre 380.</td></tr><tr><td>C32-M</td><td>1.11-K1</td><td>frame</td><td>Door contact in the frame, east jamb.</td></tr><tr><td>C32-V-2</td><td>1.11-B3</td><td>1350</td><td>Hallway switch on the other side of the door. Centre 1350.</td></tr><tr><td>C4-2V</td><td>1.11-B4</td><td>1350</td><td>300 mm from the inner north-east corner. Centre 1350.</td></tr><tr><td>SOCK-EN</td><td>1.11-Z2</td><td>300</td><td>Power socket, centre 300. No cable.</td></tr><tr><td>C1-2V</td><td>1.11-B5</td><td>1350</td><td>300 mm from the inner south-east corner. Centre 1350.</td></tr><tr><td>SOCK-ES</td><td>1.11-Z3</td><td>300</td><td>Power socket, centre 300. No cable.</td></tr><tr><td>C9-M</td><td>1.11-K2</td><td>frame</td><td>Contact in the south window frame, west jamb.</td></tr><tr><td>C46-B</td><td>1.11-XR1</td><td>facade</td><td>Blind motor outside, west of the south window.</td></tr><tr><td>C18-B</td><td>1.11-XR2</td><td>facade</td><td>Blind motor outside, north of the wide west window OP01.</td></tr><tr><td>C16-B</td><td>1.11-XR3</td><td>facade</td><td>Blind motor outside, beside the narrow west window OP02.</td></tr><tr><td>C6-2V</td><td>1.11-XB1</td><td>1350</td><td>Double button, 300 mm from the outer corner. Centre 1350.</td></tr><tr><td>C6-V</td><td>1.11-XB2</td><td>1350+80</td><td>Single button on the same cable 6, stacked above.</td></tr><tr><td>SOCK-X</td><td>1.11-XZ1</td><td>300</td><td>Outdoor socket, centre 300. No cable.</td></tr><tr><td>LAMP-X-W</td><td>1.11-XL1</td><td>unused</td><td>UNUSED. Parked. TODO: cable number unresolved.</td></tr><tr><td>LAMP-X-S</td><td>1.11-XL2</td><td>unused</td><td>UNUSED. Parked. Not wired.</td></tr>
+<tr><td>C12-S</td><td>1.11-L2</td><td>ceiling</td><td>Pendant above the bed. Cable 12.</td></tr><tr><td>C3-S</td><td>1.11-L4</td><td>bed-edge</td><td>LED strip under the bed, all around the unfinished outline. Cable 3.</td></tr><tr><td>C11-S</td><td>1.11-L1</td><td>ceiling</td><td>Ceiling in the entry, inside the room.</td></tr><tr><td>C14-W</td><td>1.11-AP1</td><td>ceiling</td><td>Access point on the bedroom ceiling.</td></tr><tr><td>C5-S</td><td>1.11-L3</td><td>ceiling</td><td>Ceiling light by the upper east plates.</td></tr><tr><td>C2-S</td><td>1.11-L5</td><td>ceiling</td><td>Ceiling light by the lower east plates.</td></tr><tr><td>C7-S</td><td>1.11-L6</td><td>ceiling</td><td>Southwest ceiling pair.</td></tr><tr><td>C8-S</td><td>1.11-L7</td><td>ceiling</td><td>Southwest ceiling pair.</td></tr><tr><td>C32-V-1</td><td>1.11-B2</td><td>1350</td><td>Bedroom light switch, 150 mm from the latch of OP09. Centre 1350.</td></tr><tr><td>C9-R</td><td>1.11-P1</td><td>in box</td><td>mmWave inside the bedroom door switch C32-V-1.</td></tr><tr><td>C32-M</td><td>1.11-K1</td><td>frame</td><td>Door contact in the latch jamb of OP09.</td></tr><tr><td>C32-V-2</td><td>1.11-B3</td><td>1350</td><td>Hallway switch on the east face of OP09. Centre 1350.</td></tr><tr><td>C10-V</td><td>1.11-B1</td><td>1350</td><td>Button 150 mm from the pocket door, not in the socket stack.</td></tr><tr><td>SOCK-N</td><td>1.11-Z1</td><td>300</td><td>First power module, 300 mm from the inner north-west corner.</td></tr><tr><td>SOCK-N2</td><td>1.11-Z4</td><td>371</td><td>Second power module, one 71 mm pitch above the first.</td></tr><tr><td>C13-E</td><td>1.11-D1</td><td>442</td><td>Ethernet two pitches above the first socket.</td></tr><tr><td>C4-2V</td><td>1.11-B4</td><td>1350</td><td>300 mm from the inner corner at the top of the east wall.</td></tr><tr><td>SOCK-EN</td><td>1.11-Z2</td><td>300</td><td>Power socket, centre 300. No ethernet.</td></tr><tr><td>C1-2V</td><td>1.11-B5</td><td>1350</td><td>300 mm from the inner south-east corner.</td></tr><tr><td>SOCK-ES</td><td>1.11-Z3</td><td>300</td><td>Power socket, centre 300. No ethernet.</td></tr><tr><td>C9-M</td><td>1.11-K2</td><td>frame</td><td>Contact in the south window frame, west jamb.</td></tr><tr><td>C46-B</td><td>1.11-XR1</td><td>facade</td><td>Blind motor outside, west of the south window.</td></tr><tr><td>C18-B</td><td>1.11-XR2</td><td>facade</td><td>Blind motor outside, north of the wide west window OP01.</td></tr><tr><td>C16-B</td><td>1.11-XR3</td><td>facade</td><td>Blind motor outside, on the 150 mm pier beside OP02.</td></tr><tr><td>C6-2V</td><td>1.11-XB1</td><td>1350</td><td>Double button, 300 mm from the outer corner. Centre 1350.</td></tr><tr><td>C6-V</td><td>1.11-XB2</td><td>1350+71</td><td>Single button on the same cable 6, one pitch above.</td></tr><tr><td>SOCK-X</td><td>1.11-XZ1</td><td>300</td><td>Outdoor socket, centre 300. No cable.</td></tr><tr><td>LAMP-X-W</td><td>1.11-XL1</td><td>unused</td><td>UNUSED. Parked. TODO: cable number unresolved.</td></tr><tr><td>LAMP-X-S</td><td>1.11-XL2</td><td>unused</td><td>UNUSED. Parked. Not wired.</td></tr>
     </tbody>
   </table>
   <h2>Questions</h2>
-  <p>These are the points the updated plan did not settle. The answers already applied are in PlanNotes.md.</p><p>1. The door leaf traced on the floor plan is about 1000 mm (x 0.676 to 1.680). A dimension on that sheet reads as 900. The 150 mm set-off uses the traced east end. Which edge is the jamb?</p><p>2. Two buttons share the bedroom face of that door. The plan puts the bedroom light switch (cable 32, with the mmWave in the box) at 1350 and cable 10 above it. Is that the lower one?</p><p>3. Ethernet is drawn at 380, one 80 mm module above the 300 socket. The stack pitch of 80 mm is assumed for buttons too. What is the real plate pitch?</p><p>4. The west outdoor lamp is parked, and its cable number is still unresolved.</p><p>5. The drawn outline is 3.300 × 6.225 m, 20.54 m². The room table says 22.98 m². Where is the other 2.44 m²?</p><p>6. The wall model has opening OP03 on W-018, 1.9 m wide, and no bedroom door. The plan ignores OP03 and uses the floor-plan door. Is OP03 a different opening?</p><p>7. The pier beside the narrow west window is 150 mm. The cable-16 motor sits on that pier.</p>
+  <p>The room outline, the three doors, and the plate pitch are settled from the model and the floor plan. Notes are in PlanNotes.md and rooms/1.11-geometry.md.</p><p>1. The west outdoor lamp is still parked. Its cable number is unresolved.</p>
 </main>
 </body>
 </html>

diff --git a/pr-preview/pr-82/electrical/PlanNotes.md b/pr-preview/pr-82/electrical/PlanNotes.md
@@ -78,9 +78,10 @@ Petr filled the three blank underscores, as house-wide centres in millimetres. T
 | What | Centre |
 | --- | --- |
 | First socket | 300 |
-| Next socket, or ethernet above a socket | one module above the one below. This plan uses 80 mm, so ethernet is at 380 |
+| Next module | one Jung LS 990 pitch above the one below. The pitch is 71 mm: a 1-gang frame is 81 mm and each added gang adds 71 mm (2-gang 152, 3-gang 223) |
+| Two sockets, then ethernet | centres 300, 371, and 442 |
 | First button | 1350 |
-| Next button | stacked above the one below (80 mm on this plan) |
+| Next button | stacked above the one below, 71 mm |
 | Sockets above a counter (kitchen, bathroom, laundry) | 1400 |
 
 Along the wall: 150 mm from a door edge, or from an outer corner when the device is indoors. 300 mm from an inner corner, or from an outer corner when the device is outdoors.
@@ -95,10 +96,11 @@ The drawing cites the short name.
 
 | Short name | Rule |
 | --- | --- |
-| `300` | Socket centre 300 mm. |
-| `380` | Ethernet centre, one 80 mm module above the socket. |
+| `300` | First socket centre. |
+| `371` | Second socket, one 71 mm pitch above. |
+| `442` | Ethernet, two pitches above the first socket. |
 | `1350` | First button centre. |
-| `1350+80` | Next button, stacked above. |
+| `1350+71` | Next button, one pitch above. |
 | `in box` | The mmWave has no position of its own. It sits in the named switch box. |
 | `frame` | A contact is in the window or door frame, at the jamb. |
 | `facade` | A blind motor is outside, on the outer face, beside the window. The cloth is not drawn. |
@@ -109,7 +111,7 @@ The drawing cites the short name.
 
 ## Room 1.11, as answered
 
-Cable 12 is the pendant above the bed. Cable 3 is the LED strip under the bed, all around that outline. Cable 6 is one 8-core cable for the single button and the double button in the same outdoor stack. Cable 32 is the door contact, the bedroom light switch, and the hallway switch on the other side of that door. Cable 16 is the blind for the narrow west window. The access point is on the bedroom ceiling. The mmWave is inside the bedroom light-switch box.
+Cable 12 is the pendant above the bed. Cable 3 is the LED strip under the bed, all around that outline. Cable 6 is one 8-core cable for the single button and the double button in the same outdoor stack. Cable 32 is the contact and the two switches of OP09, the hinged door between the entry and the corridor. Cable 16 is the blind for the narrow west window. The access point is on the bedroom ceiling. The mmWave is inside the bedroom light-switch box. The bedroom is the L in `rooms/1.11-geometry.md`, 22.98 m².
 
 Power sockets have no cable number and no circuit. They are positions only. The two outdoor lamps stay where they were and are marked UNUSED. The west lamp's cable number is still a TODO.
 

diff --git a/pr-preview/pr-82/electrical/rooms/1.11-geometry.md b/pr-preview/pr-82/electrical/rooms/1.11-geometry.md
@@ -1,0 +1,43 @@
+# Room 1.11 geometry
+
+Measured from `inputs/ground_floor/ground-floor.yaml`. Lengths are metres. The floor plan agrees with these walls and openings; the earlier 15.43 m² rectangle stopped on a dashed line that is not a wall.
+
+## Clear outline
+
+The room is an L.
+
+- Main wing: x 0.450 to 3.750 (3.300 m), y 3.275 to 9.500 (6.225 m). Inner east face of W-030, inner west face of W-031, inner north face of W-002, south face of W-018.
+- Entry wing: x 3.750 to 5.625 (1.875 m), y 8.200 to 9.500 (1.300 m). North face of W-013, west face of W-033.
+- Area: 3.300 × 6.225 + 1.875 × 1.300 = 22.98 m². The room table lists 22.98 m².
+
+W-013 does not cross the main wing, and the floor plan draws that line dashed. It is a ceiling step, not the north wall. The north wall is W-018, shared with 1.10 Šatna.
+
+W-018 ends 100 mm short of W-033 in the model (axis end x 5.525, W-033 west face 5.625). The room corner is the two faces extended.
+
+## Doors
+
+| Opening | Kind | Clear width | Leaf | Where | Swing | Into |
+| --- | --- | --- | --- | --- | --- | --- |
+| OP03 | pocket | 1.90 | 1.80 | x 1.350–3.250, y 9.500–9.625 | pocket | 1.10 Šatna |
+| OP06 | hinged | 0.80 | 0.70 | x 4.725–5.525, y 9.500–9.625 | north | 1.09 Koupelna |
+| OP09 | hinged | 0.90 | 0.80 | x 5.625–5.750, y 8.350–9.250 | west | chodba |
+
+OP03 is the double pocket into the satna: two leaves, no arc, pockets in W-018. OP06 is hinged; the floor-plan arc is on the north side of W-018, hinge at the west jamb. OP09 is hinged; the arc is on the bedroom side of W-033, hinge at the south jamb, latch at the north jamb. The corridor switch of cable 32 is on the east face of that door.
+
+## Windows
+
+| Opening | Host | Clear width | Height | Sill | Where |
+| --- | --- | --- | --- | --- | --- |
+| OP01 | W-030 | 2.40 | 2.50 | 0 | x 0.000–0.450, y 4.425–6.825 |
+| OP02 | W-030 | 0.90 | 2.50 | 0 | x 0.000–0.450, y 8.450–9.350 |
+| OP05 | W-002 | 2.25 | 2.50 | 0 | x 1.450–3.700, y 2.900–3.275 |
+
+OP01 and OP02 are the two west windows. OP05 is the south window. The pier between OP02 and W-018 is 150 mm.
+
+## Adjacent
+
+- 1.10 Šatna, north of W-018 and west of W-032, through the pocket door.
+- 1.09 Koupelna, east of the satna. OP06 opens north into its south-west side. W-033 is only a partial wall there.
+- Chodba, east of W-033 and north of W-013, through OP09. Rooms 1.12 and 1.13 open onto that corridor.
+- 1.12 Pokoj, east of W-031 and south of W-013. No door in the party wall.
+- Exterior on the west and the south.

diff --git a/pr-preview/pr-82/electrical/Questions.md b/pr-preview/pr-82/electrical/Questions.md
@@ -1,17 +1,5 @@
 # Still open — room 1.11
 
-These are the points the updated plan did not settle. The answers already applied are in PlanNotes.md.
+The room outline, the three doors, and the plate pitch are settled from the model and the floor plan. Notes are in PlanNotes.md and rooms/1.11-geometry.md.
 
-1. The door leaf traced on the floor plan is about 1000 mm (x 0.676 to 1.680). A dimension on that sheet reads as 900. The 150 mm set-off uses the traced east end. Which edge is the jamb?
-
-2. Two buttons share the bedroom face of that door. The plan puts the bedroom light switch (cable 32, with the mmWave in the box) at 1350 and cable 10 above it. Is that the lower one?
-
-3. Ethernet is drawn at 380, one 80 mm module above the 300 socket. The stack pitch of 80 mm is assumed for buttons too. What is the real plate pitch?
-
-4. The west outdoor lamp is parked, and its cable number is still unresolved.
-
-5. The drawn outline is 3.300 × 6.225 m, 20.54 m². The room table says 22.98 m². Where is the other 2.44 m²?
-
-6. The wall model has opening OP03 on W-018, 1.9 m wide, and no bedroom door. The plan ignores OP03 and uses the floor-plan door. Is OP03 a different opening?
-
-7. The pier beside the narrow west window is 150 mm. The cable-16 motor sits on that pier.
+1. The west outdoor lamp is still parked. Its cable number is unresolved.

diff --git a/pr-preview/pr-82/electrical/Naming.md b/pr-preview/pr-82/electrical/Naming.md
@@ -50,11 +50,12 @@ An exterior device is named from the room where its cable comes through the wall
 | C8-S | 1.11-L7 | ceiling | ceiling |
 | C32-V-1 | 1.11-B2 | wall | 1350 |
 | C9-R | 1.11-P1 | wall | in box |
-| C10-V | 1.11-B1 | wall | 1350+80 |
-| SOCK-N | 1.11-Z1 | wall | 300 |
-| C13-E | 1.11-D1 | wall | 380 |
 | C32-M | 1.11-K1 | frame | frame |
 | C32-V-2 | 1.11-B3 | corridor | 1350 |
+| C10-V | 1.11-B1 | wall | 1350 |
+| SOCK-N | 1.11-Z1 | wall | 300 |
+| SOCK-N2 | 1.11-Z4 | wall | 371 |
+| C13-E | 1.11-D1 | wall | 442 |
 | C4-2V | 1.11-B4 | wall | 1350 |
 | SOCK-EN | 1.11-Z2 | wall | 300 |
 | C1-2V | 1.11-B5 | wall | 1350 |
@@ -64,7 +65,7 @@ An exterior device is named from the room where its cable comes through the wall
 | C18-B | 1.11-XR2 | exterior | facade |
 | C16-B | 1.11-XR3 | exterior | facade |
 | C6-2V | 1.11-XB1 | exterior | 1350 |
-| C6-V | 1.11-XB2 | exterior | 1350+80 |
+| C6-V | 1.11-XB2 | exterior | 1350+71 |
 | SOCK-X | 1.11-XZ1 | exterior | 300 |
 | LAMP-X-W | 1.11-XL1 | exterior | unused |
 | LAMP-X-S | 1.11-XL2 | exterior | unused |
